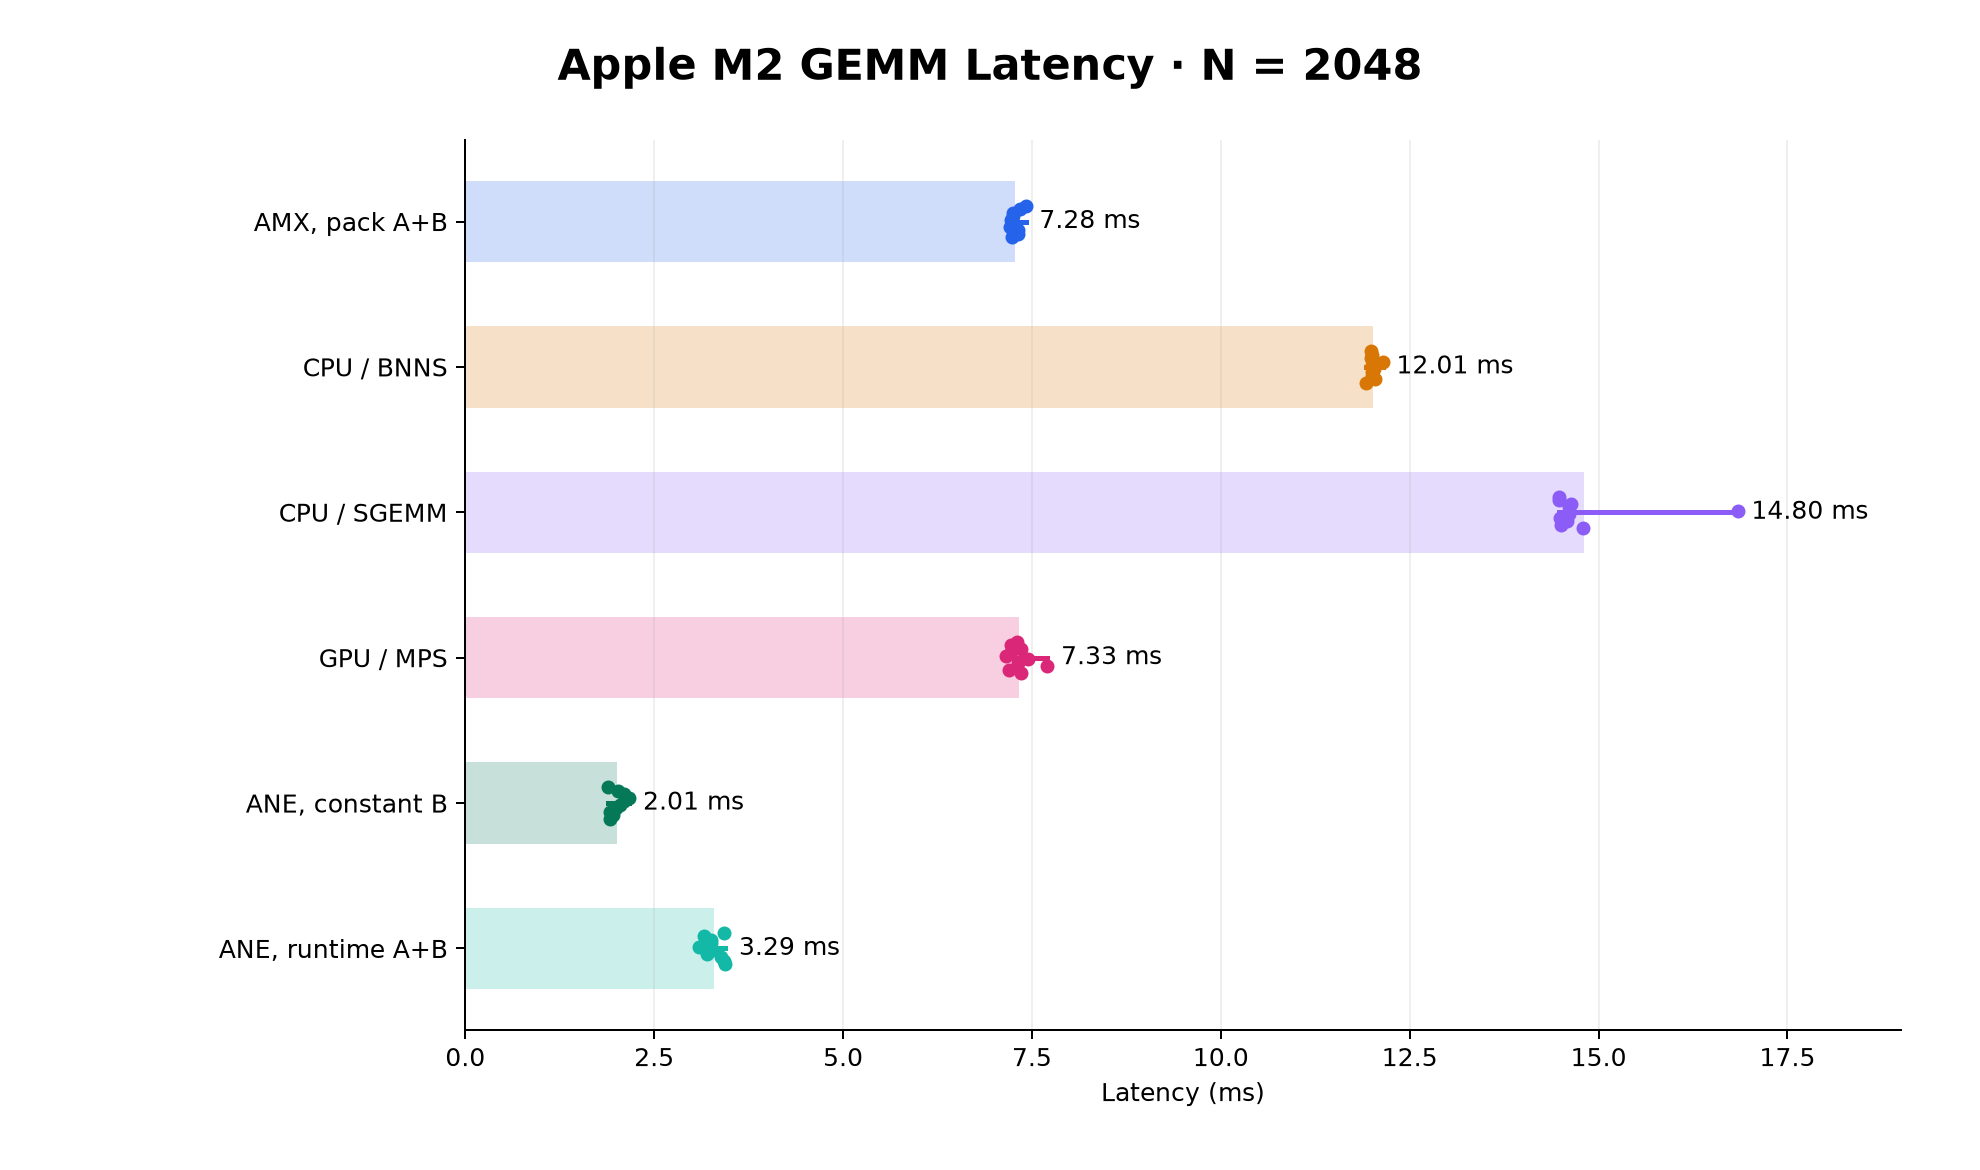
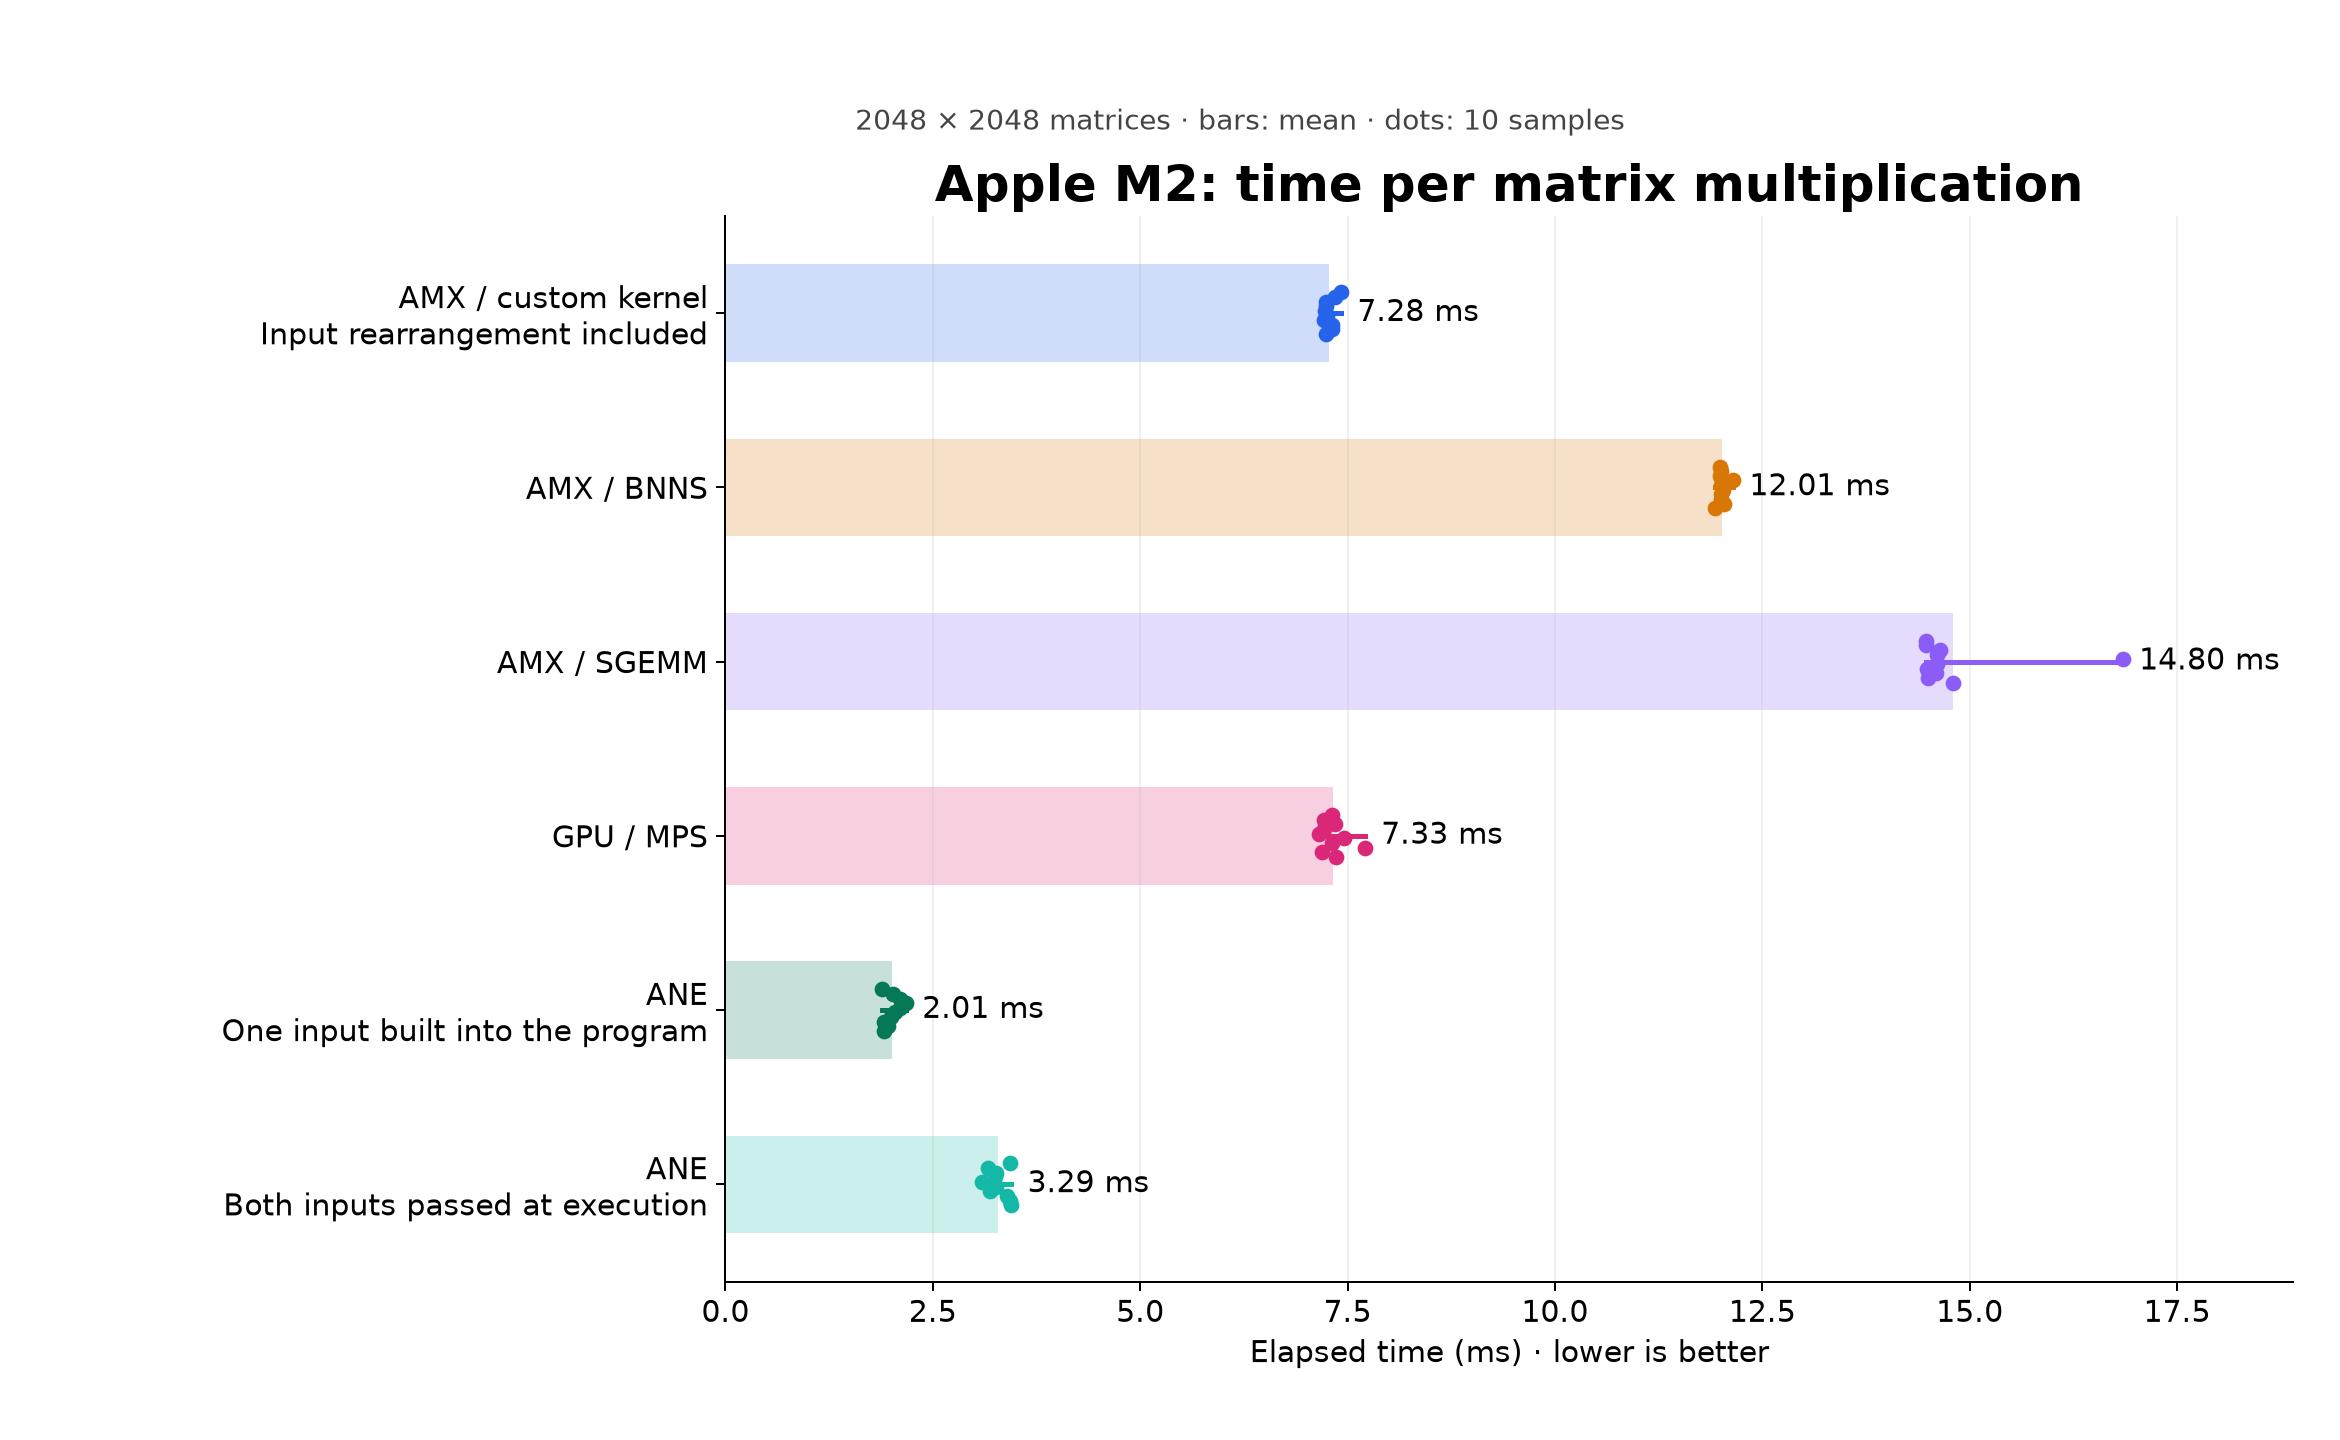
adjust

diff --git a/article/m2-benchmark.md b/article/m2-benchmark.md
@@ -1,23 +1,27 @@
-An M2 MacBook Air packs several compute engines into a single chip: CPU vector units, the AMX matrix coprocessor, a GPU, and the Apple Neural Engine (ANE). Exploring these engines can reveal more of the machine's computing potential.
+This exploration began with a practical discovery: **the M2's AMX, GPU and Neural Engine can all run real workloads through available libraries and community tools.** I knew little about AMX and had not known how to use the Apple Neural Engine (ANE) directly. Existing libraries and community reverse engineering provided ways to try both.
 
-The ANE is particularly interesting. Open-source projects such as [ANEForge](https://github.com/sbryngelson/ANEForge) have demonstrated complete ResNet-18 and ResNet-50 inference, alongside other neural-network workloads. They also make it possible to compile and execute programs directly on the ANE, giving developers more control over where computation runs.
+That led to the next question: **how much matrix-computing power does an M2 MacBook Air offer, and how much can these software paths deliver?** This benchmark compares compute references with measured matrix-multiplication (GEMM) throughput across square matrices from 64 × 64 to 4096 × 4096. Throughput is reported in TFLOPS—trillions of floating-point operations per second.
 
-How much of that potential translates into practical performance? This article starts with a compute reference for each engine: theoretical rates for CPU/NEON and GPU, measured instruction throughput for AMX, and Apple's nominal rate for ANE. GEMM benchmarks on AMX, GPU and ANE then show how much throughput each delivers on square matrices from 64 to 4096, and how packing and arithmetic precision affect the results.
+**Software paths to the hardware**
 
-Three findings stand out:
+| Hardware | Software entry point | What it provides in this benchmark |
+|---|---|---|
+| GPU | [Metal and MPS](https://developer.apple.com/documentation/metalperformanceshaders/mpsmatrixmultiplication) | Apple's official GPU compute stack; MPS supplies the matrix-multiplication implementation. |
+| AMX | [Accelerate: BNNS and BLAS](https://developer.apple.com/documentation/accelerate) | Library matrix operations that were verified to execute on AMX in the N=2048 tests. |
+| AMX | [Corsix's AMX instruction documentation](https://github.com/corsix/amx) | Reverse-engineered instructions used by the custom matrix kernel and instruction-throughput tests. |
+| ANE | [ANEForge](https://github.com/sbryngelson/ANEForge) | Direct compilation and execution of supported tensor graphs, used here for matrix multiplication. |
 
-- **ANE constant-B reaches 8.54 TFLOPS at N=2048**, compared with 2.34 TFLOPS for GPU.
-- **Prepacked AMX reaches 2.93 TFLOPS**, falling to 2.36 TFLOPS when A/B packing is included. Both use FP16 accumulation.
-- **AMX with FP32 accumulation reaches 88% of its measured arithmetic reference.** Input precision alone is not enough to choose that reference.
+[Core ML can also use ANE](https://developer.apple.com/documentation/coreml/mlcomputeunits/all) for model inference. ANEForge offers a more direct route for supported tensor computations outside that deployment flow; its operation and shape constraints differ from writing general-purpose GPU kernels.
+
+For **2048 × 2048 matrices**, three findings stand out:
+
+- **ANE reaches 8.54 TFLOPS (constant B), AMX 2.93 TFLOPS (prepacked), and GPU 2.34 TFLOPS.**
+- These results reach roughly **54%, 90% and 66%** of their respective reference rates.
+- **Input precision alone does not determine the right reference.** The precision used to add up the products matters too.
 
 ## 1. Compute references
 
-A fused multiply-add counts as two operations:
-
-```text
-GEMM TFLOPS = 2 × M × N × K / elapsed_seconds / 10^12
-% of reference = Measured TFLOPS / Reference T/s
-```
+The CPU/NEON and GPU figures below are theoretical estimates, the AMX figures are measured instruction throughput, and the ANE figure is Apple's published nominal rate. T/s means trillions of operations per second. In `FP16 × FP16 → FP32`, the arrow indicates the precision used to add up the products, called *accumulation*.
 
 | Path / mode | Reference | Type of reference |
 |---|---:|---|
@@ -28,83 +32,84 @@ GEMM TFLOPS = 2 × M × N × K / elapsed_seconds / 10^12
 | 10-core GPU | 3.57 T/s | Architecture/clock-based reference estimate |
 | ANE | 15.80 T/s | Apple's published nominal operation rate |
 
-The GPU estimate is `10 × 256 × 1.395 GHz ≈ 3.57 T/s`. Apple's nominal **15.80 T/s** ANE figure does not specify accumulation precision. NEON provides a theoretical reference; the measured GEMM paths here are AMX, GPU and ANE.
+A **single P-core's FP32 NEON reference is 0.112 T/s**; AMX and GPU references are in the low single-digit T/s range, while ANE's nominal rate is 15.80 T/s. This gives the scale of the matrix-computing capability beyond one CPU core, without treating the different precision modes as equivalent.
 
-## 2. GEMM: measured hardware performance
+The GPU estimate is `10 × 256 × 1.395 GHz ≈ 3.57 T/s`. Apple's ANE figure does not specify accumulation precision.
 
-AMX is tested with a custom kernel and two Apple library interfaces: **BNNS** for FP16 inputs and **Accelerate SGEMM** for FP32. The GPU uses **Metal Performance Shaders (MPS)**; the ANE uses **ANEForge**, with B either constant in the compiled graph or supplied at runtime.
+For matrix multiplication, each multiply-and-add counts as two operations:
 
-**M=N=K=2048, batch=1.** Mean synchronous wall time with reused buffers, after 10 warmups and 10 samples of 10 calls.
+```text
+GEMM TFLOPS = 2 × M × N × K / elapsed_seconds / 10^12
+% of reference = Measured TFLOPS / Reference T/s × 100
+```
 
-| Hardware / implementation, N=2048 | Arithmetic / I/O | Reference T/s | Mean ms | TFLOPS | % of reference |
+Here the matrices are square, so M=N=K is the number of rows and columns.
+
+## 2. Matrix multiplication benchmark results
+
+I tested available high-performance GEMM implementations through the software paths above, including both the custom AMX kernel and Apple library implementations.
+
+AMX *packing* rearranges inputs into the memory layout the kernel needs; *prepacked* excludes this preparation from timing. ANE uses either one matrix fixed in the compiled program (*constant B*) or both matrices supplied at execution (*runtime inputs*).
+
+**Two 2048 × 2048 matrices per call (M=N=K=2048, batch=1).** Times include waiting for completion and reuse the same buffers: 10 warmup calls, then 10 samples of 10 calls each.
+
+| Hardware / implementation, N=2048 | Input / accumulation precision | Reference rate (T/s) | Mean time (ms) ↓ | Throughput (TFLOPS) ↑ | Throughput / reference (%) |
 |---|---|---:|---:|---:|---:|
-| AMX GEMM, pack A+B each call | FP16 × FP16 → FP16 | 3.27 | 7.28 | 2.36 | 72.1% |
-| AMX GEMM, A+B prepacked | FP16 × FP16 → FP16 | 3.27 | 5.87 | 2.93 | 89.5% |
+| AMX GEMM, packing included | FP16 × FP16 → FP16 | 3.27 | 7.28 | 2.36 | 72.1% |
+| AMX GEMM, prepacked | FP16 × FP16 → FP16 | 3.27 | 5.87 | 2.93 | 89.5% |
 | AMX / BNNS | FP16 × FP16 → FP32 | 1.63 | 12.01 | 1.43 | 88.0% |
 | AMX / Accelerate SGEMM | FP32 × FP32 → FP32 | 1.63 | 14.80 | 1.16 | 71.3% |
 | GPU / MPS | FP16 I/O | 3.57 | 7.33 | 2.34 | 65.7% |
 | ANE / constant B | FP16 I/O | 15.80 | 2.01 | 8.54 | 54.1% |
-| ANE / runtime A+B | FP16 I/O | 15.80 | 3.29 | 5.22 | 33.0% |
+| ANE / runtime inputs | FP16 I/O | 15.80 | 3.29 | 5.22 | 33.0% |
 
-“FP16 I/O” specifies buffer precision; GPU/ANE accumulation precision is unverified. Reference rates are measured for AMX, estimated for GPU and vendor-nominal for ANE, so the percentages are not a uniform utilization metric.
+ANE delivers the highest throughput in both input modes. AMX with packing included is close to GPU; preparing the inputs beforehand gives AMX a lead.
+
+“FP16 I/O” describes the input and output values; GPU/ANE accumulation precision is unverified. The percentages use the reference types in Section 1, rather than a common measure of hardware utilization.
 
 ### Performance across matrix sizes
 
 ![GEMM throughput across seven matrix sizes](https://raw.githubusercontent.com/ToExperienceMore/apple-m2-gemm-benchmarks/main/article/figures/gemm-size-sweep.png)
 
-CPU/NEON is the single-P-core theoretical reference (0.112 TFLOPS, dashed). Measured curves use AMX with A/B packing, GPU via MPS, and ANE with constant B.
+The dashed line is the **single P-core FP32 NEON theoretical reference**. Measured curves show AMX including input packing, GPU via MPS, and ANE with one input matrix fixed in the program.
 
-GPU throughput rises with matrix size. At larger sizes, ANE leads these implementations. Several paths lose throughput at N=4096; the cause remains to be investigated.
+GPU throughput rises with matrix size, and ANE leads at larger sizes in these tests. Several implementations lose throughput at 4096 × 4096; the cause remains to be investigated.
 
-### Sample variability
+### Variation across repeated measurements
 
-![Mean latency and all ten recorded samples for N=2048](https://raw.githubusercontent.com/ToExperienceMore/apple-m2-gemm-benchmarks/main/article/figures/gemm-2048-latency.png)
+![Mean latency and all ten recorded samples for 2048 × 2048 matrices](https://raw.githubusercontent.com/ToExperienceMore/apple-m2-gemm-benchmarks/main/article/figures/gemm-2048-latency.png)
 
-AMX with packing and GPU are close: **7.28 ms** versus **7.33 ms**, with overlapping sample ranges.
+Including input packing, AMX takes **7.28 ms**, close to the GPU's **7.33 ms**. Their sample ranges overlap.
 
-## 3. How the hardware was tested
+## 3. How the benchmarks were run
 
 - **Hardware:** MacBook Air M2, 4 performance + 4 efficiency CPU cores, 10-core GPU, 16 GB memory.
-- **Inputs:** identical seeded FP16 matrices, converted to FP32 for SGEMM. Buffers are reused without cache flushes; runtime A+B supplies both as inputs with fixed contents during timing.
-- **Threads:** best mean per size from BNNS 1/4/8 threads and custom AMX 1/4 workers; SGEMM uses `VECLIB_MAXIMUM_THREADS=8`.
+- **Inputs:** the same reproducible random FP16 values for every implementation, converted to FP32 for SGEMM. Buffers are reused without clearing caches. Even when both ANE inputs are passed at execution, their values stay unchanged during timing.
+- **Threads:** BNNS is tested with 1, 4 and 8 threads; custom AMX with 1 and 4 workers. Results show the fastest mean at each matrix size. SGEMM uses `VECLIB_MAXIMUM_THREADS=8`.
 
-Allocation, compilation, initial copies and validation are outside timing. BNNS/SGEMM include library-internal packing. MPS includes commit and completion waits, with encoding before each sample. ANE uses synchronous native execution on resident buffers.
+Timing excludes memory allocation, compilation, initial data copies and correctness checks. BNNS/SGEMM timing includes any input rearrangement inside the libraries. MPS timing includes submitting prepared GPU commands and waiting for completion. ANE timing covers native execution and completion using buffers already in place.
 
-## 4. AMX: packing and accumulation precision
+[SiliconScope](https://github.com/ToExperienceMore/apple-m2-gemm-benchmarks/blob/main/evidence/README.md#watching-engine-activity-with-siliconscope) provides a live view of CPU, GPU and ANE activity while the workload runs. AMX execution and precision were checked separately through sampling, disassembly and breakpoints; the [verification guide](https://github.com/ToExperienceMore/apple-m2-gemm-benchmarks/blob/main/evidence/README.md) contains the detailed records and reproduction steps.
 
-### Packing cost
+## 4. Why accumulation precision matters
 
-The custom AMX kernel computes 32×64 output tiles. Packing arranges A in 32-row panels and B in 64-column panels for its outer-product loop. The first row includes this packing on every call; the prepacked row reuses both packed matrices. Both include GEMM loads and C stores.
+**FP16 inputs do not necessarily mean FP16 accumulation.** Each output value is a sum of products, and the running sum can use a different precision from the inputs.
 
-### FP16 inputs, FP32 accumulation
+BNNS reaches **1.43 TFLOPS** at N=2048. Comparing it with the **3.27 T/s** AMX reference for FP16 accumulation gives about **44%**. But runtime checks confirmed that BNNS uses **FP32 accumulation**. Its matching instruction reference is **1.63 T/s**, so it reaches **88%** of that rate. The input type alone would have led to the wrong conclusion about how much of the arithmetic capacity was being used.
 
-The AMX path through BNNS reaches **1.43 TFLOPS** at N=2048. Dividing by the **3.27 T/s** FP16-accumulation reference gives **44%**, but FP16 inputs do not imply FP16 accumulation.
+The checks also confirmed FP32 AMX calculations for SGEMM and FP16 accumulation for the custom kernel. Instruction modes and debugger records are in the [execution evidence](https://github.com/ToExperienceMore/apple-m2-gemm-benchmarks/blob/main/evidence/README.md#detailed-execution-path-verification).
 
-Sampling located the hotspot in `libBNNS.dylib`. A runtime breakpoint captured:
+### The precision tradeoff
 
-```text
-instruction:      0x002012a8 → AMX_MATFP(x8)
-x8:               0x00000c0000000000
-(x8 >> 42) & 0xf:  3
-```
+At N=2048, the custom AMX kernel with FP16 accumulation has **0.65% relative L2 error** against an FP32 reference, compared with roughly **0.02–0.03%** for the other implementations. Relative L2 error measures the overall output difference relative to the reference. The faster custom AMX result comes with a larger measured error.
 
-[MATFP mode 3](https://github.com/corsix/amx/blob/main/matfp.md) means FP16 inputs with **FP32 accumulation**. The relevant measured reference is therefore **1.63 T/s**, and this AMX implementation achieves **88%** of it. A CPU library call can execute on AMX; the API name and input type alone do not identify the arithmetic.
+All implementations pass their configured correctness checks. The [validation guide](https://github.com/ToExperienceMore/apple-m2-gemm-benchmarks/blob/main/README.md#numerical-validation) gives the reference calculations and tolerances.
 
-SGEMM was verified as AMX `FMA32`; the custom kernel uses `MATFP` mode 2 for FP16 accumulation. The GPU path records command-buffer timestamps; ANE execution requires device mask `0x4`. The [sampling, disassembly and runtime records](https://github.com/ToExperienceMore/apple-m2-gemm-benchmarks/blob/main/evidence/README.md) document these paths.
+## 5. What this benchmark shows
 
-For a live view of CPU, GPU and ANE activity while a workload runs, see [SiliconScope and the example screenshot](../evidence/README.md#watching-engine-activity-with-siliconscope).
+**AMX, GPU and ANE all have usable compute paths, and each delivered multi-TFLOPS GEMM throughput on this M2.** The measurements show how much of their matrix-computing capability these paths deliver, with results varying by input preparation and execution mode.
 
-## 5. Precision and error
-
-At N=2048, the custom FP16-accumulating AMX kernel has **0.65% relative L2 error** against FP32, compared with roughly **0.02–0.03%** for the other paths. The faster AMX result therefore comes with lower accumulation precision.
-
-All implementations pass their configured checks. The custom kernel is checked against sequential hardware FP16 FMA; the others use FP32 references, with additional FP64 spot checks for ANE. Exact tolerances and error records are in the [validation guide](https://github.com/ToExperienceMore/apple-m2-gemm-benchmarks/blob/main/README.md#numerical-validation).
-
-## 6. Reproduce and extend
-
-The [GitHub repository](https://github.com/ToExperienceMore/apple-m2-gemm-benchmarks)
-
-The next step is to investigate the gap between measured GEMM throughput and each engine’s compute reference: what limits performance, and how much headroom remains for optimization?
+The remaining gaps to the reference rates are starting points for bottleneck investigation, not guaranteed recoverable speedups. The next step is to examine what limits each implementation, especially at larger matrix sizes. The [GitHub README](https://github.com/ToExperienceMore/apple-m2-gemm-benchmarks/blob/main/README.md#quick-start) provides build and benchmark commands; [detailed measurements](https://github.com/ToExperienceMore/apple-m2-gemm-benchmarks/blob/main/article/detailed-measurements.md) support further analysis.
 
 ## References
 

diff --git a/evidence/README.md b/evidence/README.md
@@ -30,6 +30,8 @@ Decode: instruction base `0x201000`, opcode 21, GPR 8 → `AMX_MATFP(x8)`. Lane 
 
 ### Custom FP16 GEMM (AMX)
 
+The custom kernel computes 32×64 output tiles. Packing arranges the first input in 32-row panels and the second in 64-column panels for its outer-product loop. See the [kernel source](../src/amx/gemm_fp16.cpp) for the memory layout.
+
 `fp16-gemm-disassembly.txt` records the compiled tile loop. Its two MATFP operands have lane mode 2: FP16 X/Y/Z on M2. The source also specifies this mode explicitly; validation checks sequential hardware FP16 FMA output.
 
 ### MPS and ANE
